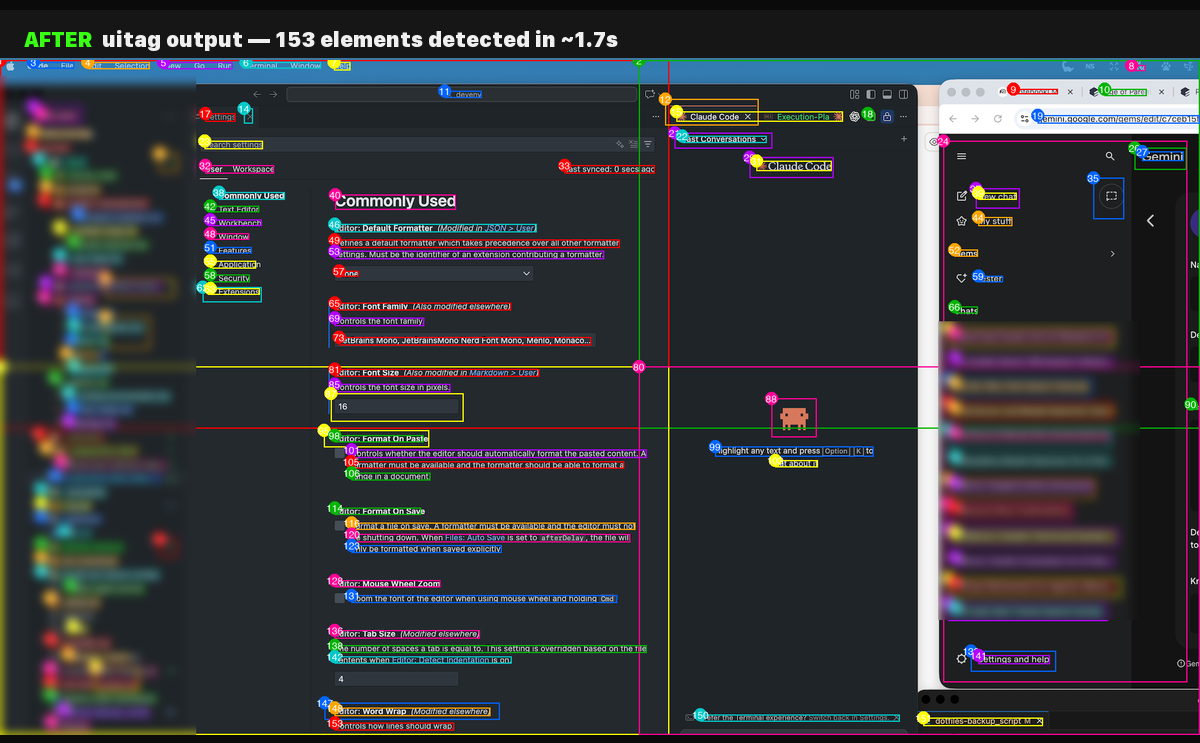
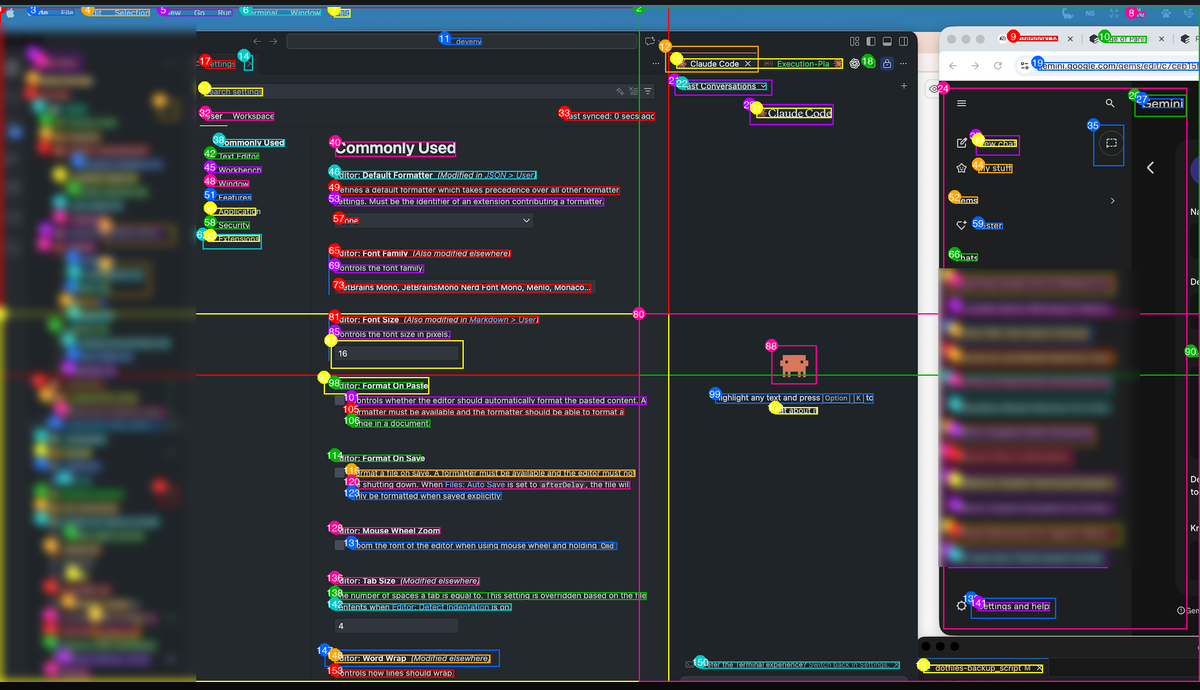
docs: fix hero-after crop and caption in Why This Exists
Remove title bar from cropped screenshot. Fix caption to match
manifest: 151 elements with full description.

diff --git a/README.md b/README.md
@@ -52,7 +52,7 @@ That's the core insight. uitag doesn't force a small model to see a complex desk
 
 ![uitag output — 151 tagged UI elements on a VS Code screenshot](docs/examples/hero-after.png)
 
-*151 elements detected in ~1.7s. [Full manifest JSON →](docs/examples/vscode-manifest.json)*
+*151 elements detected in ~1.7s — text labels (Apple Vision), rectangles, icons, and buttons (Florence-2). [Full manifest JSON →](docs/examples/vscode-manifest.json)*
 
 ## Pipeline Architecture
 
